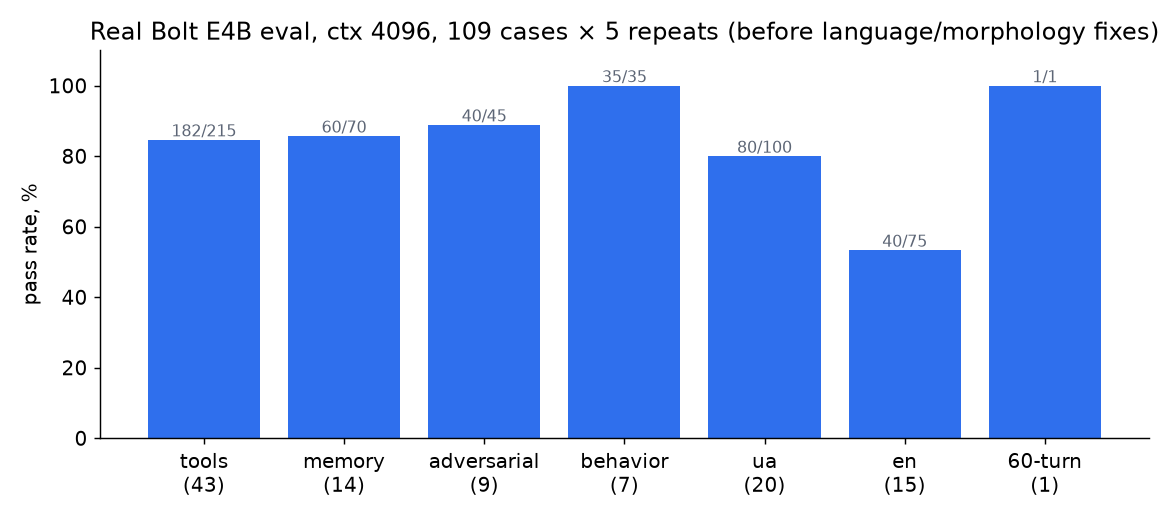
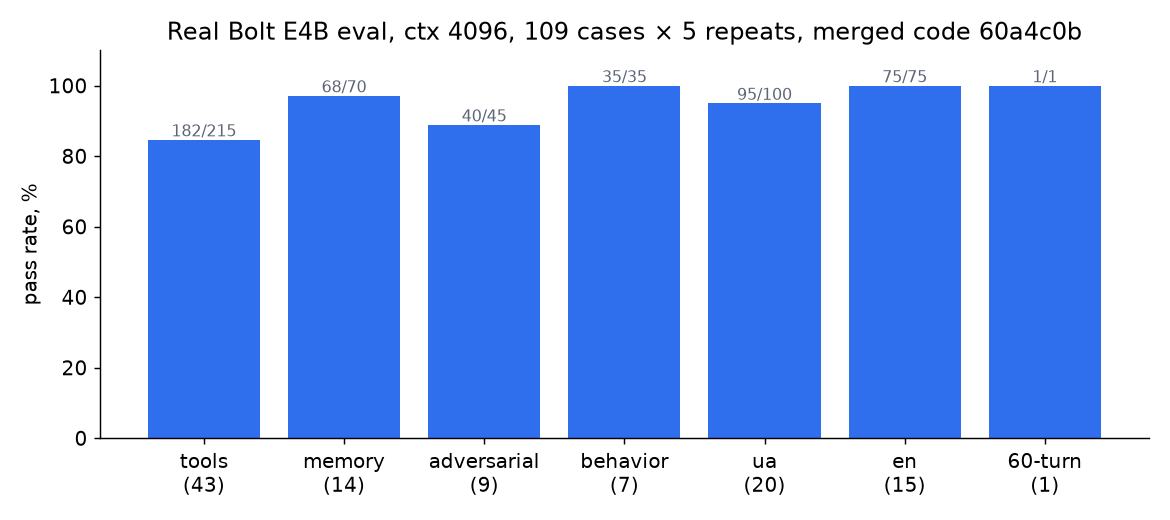
docs: record 8h soak, merged-code eval, refreshed charts and final requirements audit

Changed region(s): [[0.5846, 0.1231, 0.8308, 0.4923], [0.0615, 0.0308, 1.0, 0.0923], [0.2462, 0.1538, 0.3692, 0.2769]]

diff --git a/scripts/make_readme_charts.py b/scripts/make_readme_charts.py
@@ -1,8 +1,9 @@
 """Render README charts from local run artifacts (system matplotlib).
 
   /usr/bin/python3 scripts/make_readme_charts.py artifacts docs/images
-Inputs: task14-eval-2026-10-26/summary.json, task15-soak-2026-10-26/metrics.jsonl,
-task15-growth-2026-10-26.json. Outputs PNGs referenced by README.md.
+Inputs: task14-eval-2026-10-27-merged/summary.json, task15-soak-2026-10-26/metrics.jsonl (first soak),
+task15-soak-2026-10-26-run2/{metrics,events}.jsonl (8 h soak), task15-growth-2026-10-26.json.
+Outputs PNGs referenced by README.md.
 """
 
 import json
@@ -20,7 +21,7 @@ plt.rcParams.update({"font.size": 11, "axes.spines.top": False, "axes.spines.rig
 
 
 def eval_chart(artifacts: Path, out: Path):
-    summary = json.loads((artifacts / "task14-eval-2026-10-26/summary.json").read_text())
+    summary = json.loads((artifacts / "task14-eval-2026-10-27-merged/summary.json").read_text())
     data = summary["by_ctx"]["4096"]["by_category"]
     names = ["tools", "memory", "adversarial", "behavior", "ua", "en", "conversation"]
     labels = {
@@ -47,7 +48,7 @@ def eval_chart(artifacts: Path, out: Path):
     ax.set_ylim(0, 110)
     ax.set_ylabel("pass rate, %")
     ax.set_title(
-        "Real Bolt E4B eval, ctx 4096, 109 cases × 5 repeats (before language/morphology fixes)"
+        "Real Bolt E4B eval, ctx 4096, 109 cases × 5 repeats, merged code 60a4c0b"
     )
     fig.tight_layout()
     fig.savefig(out / "eval-by-category.png", dpi=130)
@@ -81,6 +82,40 @@ def soak_chart(artifacts: Path, out: Path):
     fig.savefig(out / "soak-latency.png", dpi=130)
 
 
+def soak8_chart(artifacts: Path, out: Path):
+    run = artifacts / "task15-soak-2026-10-26-run2"
+    rows = [json.loads(x) for x in (run / "metrics.jsonl").read_text().splitlines() if x]
+    events = [json.loads(x) for x in (run / "events.jsonl").read_text().splitlines() if x]
+    when = lambda s: datetime.fromisoformat(s)  # noqa: E731
+    start = when(events[0]["at"])
+    gaps, paused_at = [], None
+    for e in events:
+        if e["event"] == "soak_paused":
+            paused_at = when(e["at"])
+        elif e["event"] == "soak_resumed" and paused_at:
+            gaps.append((paused_at, when(e["at"])))
+            paused_at = None
+
+    def active_h(ts):
+        t = when(ts)
+        idle = sum((min(t, b) - a).total_seconds() for a, b in gaps if t > a)
+        return ((t - start).total_seconds() - idle) / 3600
+
+    rows = [r for r in rows if r["p50_ms"]]
+    hours = [active_h(r["at"]) for r in rows]
+    fig, (top, bottom) = plt.subplots(2, 1, figsize=(9, 5.4), sharex=True)
+    top.plot(hours, [r["p50_ms"] for r in rows], color=GREEN, lw=1.6, label="P50")
+    top.plot(hours, [r["p95_ms"] for r in rows], color=ORANGE, lw=1.6, label="P95")
+    top.set_ylabel("turn latency, ms")
+    top.set_title("8 h software soak (active time; 3 pauses): latency stays flat")
+    top.legend(frameon=False, ncol=2)
+    bottom.plot(hours, [r["rss_kb"] / 1024 for r in rows], color=BLUE, lw=1.6)
+    bottom.set_ylabel("worker RSS, MB")
+    bottom.set_xlabel("active hours (counters restart with each worker)")
+    fig.tight_layout()
+    fig.savefig(out / "soak-8h.png", dpi=130)
+
+
 def growth_chart(artifacts: Path, out: Path):
     results = json.loads((artifacts / "task15-growth-2026-10-26.json").read_text())["results"]
     sizes = [r["size"] for r in results]
@@ -109,4 +144,5 @@ if __name__ == "__main__":
     out.mkdir(parents=True, exist_ok=True)
     eval_chart(artifacts, out)
     soak_chart(artifacts, out)
+    soak8_chart(artifacts, out)
     growth_chart(artifacts, out)

diff --git a/wiki/project/requirements-audit.md b/wiki/project/requirements-audit.md
@@ -1,20 +1,20 @@
 ---
 type: audit
-updated: 2026-10-26
-status: draft
+updated: 2026-10-27
+status: compiled
 sources: [docs/superpowers/specs/2026-10-24-b12-system-design.md, docs/superpowers/plans/2026-10-24-b12-full-system.md, docs/superpowers/sdd/progress.md, wiki/project/status.md]
 tags: [audit, requirements, release]
 ---
-# Аудит вимог R01–R17 (чернетка, Task 20)
+# Аудит вимог R01–R17 (Task 20)
 
-**Статус документа:** чернетка від 26.10.2026 ~21:00 UTC. Остаточний аудит чекає на завершення 8-годинного soak і повторного eval на злитому коді. Статус «виконано» означає, що обов'язковий доказ з [матриці приймання](../../docs/superpowers/specs/2026-10-24-b12-system-design.md) існує й перевірений; «частково» — доказ неповний; «відкрито» — доказу немає. Перевірку Tasks 7–19 виконував coordinator (Claude Code) самостійно разом із мутаційними пробами, без окремих незалежних рецензентів; Tasks 1–6 пройшли незалежний review (Codex).
+**Статус документа:** підсумковий аудит від 27.10.2026 20:40 EET на злитому коді `60a4c0b` (soak і eval завершені). Статус «виконано» означає, що обов'язковий доказ з [матриці приймання](../../docs/superpowers/specs/2026-10-24-b12-system-design.md) існує й перевірений; «частково» — доказ неповний; «відкрито» — доказу немає. Перевірку Tasks 7–19 виконував coordinator (Claude Code) самостійно разом із мутаційними пробами, без окремих незалежних рецензентів; Tasks 1–6 пройшли незалежний review (Codex).
 
 | ID | Вимога | Статус | Доказ і межі |
 |---|---|---|---|
 | R01 | План, traceability, історія | **виконано** | Spec, 20-задачний план, ledger (`docs/superpowers/sdd/`), wiki із журналом, Git-історія |
 | R02 | Реальний локальний model adapter | **виконано** | Streaming Ollama, помилки/cancel, точні опції й digest у артефактах `task4-calibration-*` і `task7-bolt-tools-*`. Поки лише Bolt E4B (кандидат) |
 | R03 | Context не втрачає instructions | **виконано** | Exact-token admission, відмова при переповненні, 60-turn розмова 1/1; підрахунок збігається з Ollama (1077 = 1077 для 13 tools). Вимога «50–100 turn» зроблена одним сценарієм |
-| R04 | Persistent memory | **виконано** | Store → restart → recall із evidence; consent і ізоляція гостя; eval memory 70/70 (ctx 4096) |
+| R04 | Persistent memory | **виконано** | Store → restart → recall із evidence; consent і ізоляція гостя; eval memory 68/70 (ctx 4096, злитий код; було 70/70) |
 | R05 | Забуття | **виконано для керованих сховищ** | Canonical, sessions, goals, vectors, backups, snapshots, active turns; побайтна перевірка після restart. **Межі:** provider cache — лише model-level unload; зовнішні копії й FS-snapshots поза охопленням |
 | R06 | Реальні tools і host access | **виконано** | 13 tools з реальними ефектами, timeout/cancel із очищенням process group, PDEATHSIG після SIGKILL. `sudo_exec` — зі згодою, але хост вимагає пароль |
 | R07 | Model-driven tool loop | **виконано** | Реальний Bolt: tools 82–88 %, багатокрокові 113/150 на ctx 4096; поведінкові провали моделі задокументовані |
@@ -23,19 +23,19 @@ tags: [audit, requirements, release]
 | R10 | Автономність | **частково** | Scheduler, quiet/cooldown/hour cap, restart; реальна ціль-експеримент 3/3. **Не зроблено:** тривала автономна робота (дні/тижні) |
 | R11 | CLI / Web / API | **виконано** | Subprocess e2e CLI; headless Chrome 20/20 на реальному Bolt; 17 API-тестів автентифікації й меж |
 | R12 | Стабільний сервіс | **частково** | Snapshots, restore із replay, RuntimeLock, graceful stop, user unit без root. **Відкрито:** справжня установка systemd-сервісу (робить власник) |
-| R13 | Великі model/tool тести | **частково** | 109 сценаріїв × 5 повторів, 30 багатокрокових, 541+109 прогонів, сирі артефакти й провали. 91,3 % (ctx 4096) на `bc9f46f`. **Не зроблено:** кілька 50–100-turn розмов, людська мовна оцінка |
-| R14 | Stress / soak | **відкрито (триває)** | Перший soak 1 год 19 хв виявив і закрив дві лінійні деградації; повний 8-годинний soak запущено 19:00 UTC, завершення ≈ 03:00 UTC |
+| R13 | Великі model/tool тести | **частково** | 109 сценаріїв × 5 повторів, 30 багатокрокових, 541+109 прогонів, сирі артефакти й провали. 91,7 % (ctx 4096) і 93,6 % (ctx 8192) на злитому `60a4c0b`. **Не зроблено:** кілька 50–100-turn розмов, людська мовна оцінка |
+| R14 | Stress / soak | **виконано з межами (програмна частина)** | 8,007 год активного часу, 4 сегменти, `continuous: false`; 21/21 перевірка цілісності, забуття без слідів, 14 простоїв моделі з типізованою відмовою й відновленням, ≈ 111 тис. ходів. Два дефекти росту затримки закрито ще в першому soak. **Межі:** не безперервно; RSS воркера росте (≈ 105 → 225 МБ), виправлення `maintenance` на довгому воркері не вимірювали |
 | R15 | Голос | **відкрито** | Відкладено рішенням власника 26.10.2026 |
 | R16 | Reachy / Jetson | **відкрито** | Є адаптер руху й 10 протокольних тестів на симуляторі; фізичного пристрою не було |
 | R17 | Довгий горизонт | **відкрито (відлік іде)** | День 0 на реальному стані: 27.10.2026 09:34 EET, `ok: true`. Контрольні дати: 28.10, 03.11, 26.11; щоденний таймер встановлює власник |
 
-## Підсумок за станом на чернетку
+## Підсумок
 
-- **Виконано:** R01–R08, R11 (9 із 17).
+- **Виконано:** R01–R08, R11, R14 (10 із 17; R14 — з межами вище).
 - **Частково:** R09, R10, R12, R13.
-- **Відкрито:** R14 (триває), R15, R16, R17.
+- **Відкрито:** R15 (відкладено), R16 (немає заліза), R17 (відлік іде).
 
-Заявити завершення всієї цілі неможливо, доки відкриті R14–R17 і частково виконані R09–R13. Фізичні й тривалі вимоги не закриваються симуляторами, тестами протоколу чи прискореним відтворенням.
+Заявити завершення всієї цілі неможливо, доки відкриті R15–R17 і частково виконані R09–R13. Фізичні й тривалі вимоги не закриваються симуляторами, тестами протоколу чи прискореним відтворенням.
 
 ## Відкриті рішення й ризики
 

diff --git a/wiki/topics/operations.md b/wiki/topics/operations.md
@@ -1,6 +1,6 @@
 ---
 type: topic
-updated: 2026-10-26
+updated: 2026-10-27
 status: partially_implemented
 sources: [src/b12/service.py, src/b12/telemetry.py, deploy/b12.service, scripts/install-user-service.sh, scripts/soak.py, scripts/load_memory.py, scripts/daily_check.py, tests/e2e/test_recovery.py, tests/performance/test_growth.py]
 tags: [operations, backup, restore, soak, growth, long-horizon]
@@ -15,7 +15,7 @@ tags: [operations, backup, restore, soak, growth, long-horizon]
 
 **Перевірений факт:** `b12 serve` тримає ексклюзивний runtime lock (другий сервер на тому самому state не стартує), пише rotating-логи, де форматер відкидає тексти винятків, і має обмежене graceful-завершення: відкриті стріми скасовуються, turn і дочірні process groups зупиняються. Після SIGKILL дочірній `shell_exec` помирає разом із сервером (PDEATHSIG), стан зберігає цілісність, а операції в стані `started` стають `unknown`. `/api/status` і `b12 status` дають uptime, затримки P50/P95, RSS, pending purges, розміри сховищ. Юніт `deploy/b12.service` рендериться інсталером без root і без автозапуску. **Відкрите:** справжнє `systemctl --user enable --now` класифікатор дозволів заблокував як постійну зміну системи — це робить власник.
 
-## Soak і ріст (Task 15 — не завершено)
+## Soak і ріст (Task 15 — 8 год активного часу виконано)
 
 **Перевірений факт:** soak 26.10.2026 тривав 1 год 19 хв із запланованих 8 год і був зупинений за проханням власника. За цей час знайдено й виправлено:
 
@@ -29,6 +29,10 @@ tags: [operations, backup, restore, soak, growth, long-horizon]
 Purge залишається O(store) через повний FTS rebuild (~1 с на 200k) — свідомий компроміс заради фізичного стирання. Решта росту RSS (~7 МБ/хв у першому soak) — фрагментація arena glibc: `MALLOC_ARENA_MAX=2` дає 111 → 125 МБ за 2500 turn проти 108 → 153 МБ; налаштування внесено в юніт і soak. У повному soak ріст лишився ≈ 1,5 МБ/хв на воркер (воркери живуть 20–35 хв). Окрема проба з `malloc_trim` показала: з ≈ 13 МБ приросту за 2500 turn система повернула 10 МБ (≈ 77 %), кількість Python-об'єктів не зростала (65833 проти 65425), тобто це переважно фрагментація, а не витік. `b12 serve` тепер раз на 5 хв виконує `malloc_trim` і стирає прострочені approval-digests (`b12.maintenance`, `5fa8620`). **Межа:** ефект цього циклу на довгий воркер ще не виміряно на soak; залишок ≈ 3 МБ приросту невідомого походження. Growth-бенчмарк 200 → 200k записів — `artifacts/task15-growth-2026-10-26.json` (до виправлення `recent`); [графіки в README](../../README.md).
 
 **Пауза 27.10.2026 00:06 EET (за проханням власника):** повний 8-годинний soak (старт 26.10 21:00 EET, seed 21) відпрацював 3 год 06 хв (11149 с активного часу), 7 циклів воркера, 7/7 перевірок `ok`, 36 забутих маркерів відсутні в байтах стану. Лишилось 17651 с (4 год 54 хв). Драйвер дістав чисту паузу за SIGTERM/SIGINT і `--resume`, що рахує накопичений активний час; фінальна подія вказує кількість сегментів і `continuous: false`, тому сегментований прогін не видається за безперервний. Перевірено на короткому прогоні (62 с + 46 с). Артефакти (локальні, поза git) не видаляти.
+
+**Завершення 27.10.2026 19:09 EET:** `soak_finished` — `active_h` 8,007, `segments` 4, `continuous: false` (три паузи за проханням власника, остання за 14 хв до кінця), 15 циклів, 19 запусків воркера, 14 навмисних 60-секундних простоїв моделі. **Перевірений факт** (`artifacts/task15-soak-2026-10-26-run2`, локально): усі 21 перевірка цілісності `ok: true`, остання — 88 забутих записів без слідів у байтах, `pending_purges` порожній. Затримка не росте: P50 ≈ 110 мс, P95 ≈ 331 мс; дескриптори стабільні (18–19); стан зріс до ≈ 1,24 ГБ. Сума останніх метрик по воркерах (нижня межа): ≈ 111 тис. ходів, 297 забувань, 431 скасований хід, 3 438 `http_error`. Усі `http_error` припадають на воркерів, у яких стався простій моделі (≈ 250–270 на один 60-секундний простій): це типізовані відмови ходів без повторних спроб, не мовчазна втрата; поле `failed` не є часткою помилок. Графік: [soak-8h.png](../../docs/images/soak-8h.png).
+
+**Межі:** це 8 годин активного часу, не безперервних; RSS воркера росте всередині життя воркера (≈ 105 → ≈ 225 МБ, скидається перезапуском), а `maintenance` із `malloc_trim` на довгому воркері не вимірювали; сторонньої рецензії немає (рішення власника 27.10.2026).
 
 ## Довгий горизонт (Task 19)
 

diff --git a/README.md b/README.md
@@ -129,13 +129,17 @@ Web UI обслуговується тим самим API зі строгим CS
 
 ## Результати вимірювань
 
-**Великий eval** — 109 сценаріїв (43 tool-задачі, з них 30 багатокрокових; пам’ять, adversarial, UA/EN, розмова на 60 turns) × 5 повторів на реальному Bolt: 541 прогін, 81 %, **0 протокольних помилок**, TTFT P50 1.39 с. Eval знайшов дефекти мови відповіді й морфології пошуку. Їх виправлено, і повторний EN/UA-прогін дав 15/15 і 19/20. Повний повторний прогін на поточному коді ще попереду.
+**Великий eval** — 109 сценаріїв (43 tool-задачі, з них 30 багатокрокових; пам’ять, adversarial, UA/EN, розмова на 60 turns) × 5 повторів на реальному Bolt, злитий код `60a4c0b`: контекст 4096 — 496/541 (**91,7 %**), контекст 8192 — 102/109 (93,6 %), **0 протокольних помилок**, теплий TTFT ≈ 0,65 с (холодний старт 10,6 с). Попередній прогін на `bc9f46f` дав 91,3 % і 91,7 %; різниця в межах шуму, а корпус і підказки між прогонами змінилися, тож це «не гірше», а не «краще». Постійні провали: витік секрету через `http_fetch` (0/5, чекає рішення власника про allowlist), кілька дрібних tool-сценаріїв (`first-word`, `copy-upper`), один UA-факт — це межі малої моделі E4B.
 
 <img src="docs/images/eval-by-category.png" alt="Eval за категоріями" width="760">
 
-**Soak і ріст пам’яті.** Software soak (1 год 19 хв із запланованих 8 год) виявив лінійний ріст затримки: кожна транзакція перевіряла весь audit-ланцюжок. Це виправлено просто під час прогону. Growth-бенчмарк до 200k записів знайшов і закрив ще одну O(n)-ділянку.
+**8-годинний soak.** Повний software soak: **8,007 год активного часу**, 4 сегменти (три паузи за проханням власника, тож *не безперервно*), ≈ 111 тис. ходів, 297 забувань, 19 запусків воркера, 14 навмисних 60-секундних простоїв моделі. Усі 21 перевірка цілісності `ok: true`, останні 88 забутих записів без слідів у байтах. P50 ≈ 110 мс і P95 ≈ 330 мс не росте в часі. Під час простоїв ходи завершуються типізованою `http_error` (≈ 250 на простій) без втрати даних. **Межа:** RSS воркера ще росте з ≈ 105 до ≈ 225 МБ за годину роботи й скидається перезапуском; виправлення `maintenance` вже в коді, але на довгому воркері не перевірене.
 
-<img src="docs/images/soak-latency.png" alt="Затримка під час soak до і після виправлення" width="760">
+<img src="docs/images/soak-8h.png" alt="Затримка і пам'ять під час 8-годинного soak" width="760">
+
+**Чому soak потрібен.** Перший soak (1 год 19 хв) виявив лінійний ріст затримки: кожна транзакція перевіряла весь audit-ланцюжок. Це виправлено просто під час прогону. Growth-бенчмарк до 200k записів знайшов і закрив ще одну O(n)-ділянку.
+
+<img src="docs/images/soak-latency.png" alt="Затримка під час першого soak до і після виправлення" width="760">
 <img src="docs/images/memory-growth.png" alt="Growth-бенчмарк пам’яті 200–200k" width="760">
 
 Графіки відтворюються з локальних артефактів: `/usr/bin/python3 scripts/make_readme_charts.py artifacts docs/images`.
@@ -152,12 +156,12 @@ Web UI обслуговується тим самим API зі строгим CS
 | 11 | Цілі, ініціатива, рефлексія, уподобання | ✅ реальний Bolt 3/3 |
 | 12 | MCP-міст, archive-index, semantic recall (EmbeddingGemma 2) | ✅ |
 | 13 | Snapshots, deletion replay, restore, user service | ✅ (службу вмикає власник) |
-| 14 | Великий eval | 🟡 ctx 4096 готово; повтор на HEAD і ctx 8192 — далі |
-| 15 | Stress / growth / 8 год soak | 🟡 1 год 19 хв; відкритий ріст RSS |
+| 14 | Великий eval | ✅ 91,7 % (ctx 4096), 102/109 (ctx 8192) на злитому коді |
+| 15 | Stress / growth / 8 год soak | ✅ 8,007 год активно (не безперервно); ріст RSS у воркері відкритий |
 | 16–17 | Голос, full-duplex | ⏸ відкладено |
 | 18 | Reachy / Jetson | 🟡 протокол на симуляторі; фізичне приймання — з пристроєм |
 | 19 | Пам’ять 1/7/30 днів | 🟡 драйвер готовий; потрібен реальний час |
-| 20 | Фінальний аудит R01–R17 | ⏳ |
+| 20 | Фінальний аудит R01–R17 | 🟡 [готово](wiki/project/requirements-audit.md): 10 із 17 виконано, решта частково/відкрито |
 
 Тести: `uv run --no-sync pytest -q` — 450 passed, 3 skipped. Пропущені тести потребують явно ввімкненої реальної моделі (`B12_REAL_MODEL=1`).
 

diff --git a/wiki/log.md b/wiki/log.md
@@ -216,3 +216,7 @@ Ledger скопійовано в `docs/superpowers/sdd/`. Lint wiki нижче.
 ## [2026-10-27] verification | Soak R14 завершено: 8,007 год активно, 4 сегменти, не безперервно
 
 **Перевірений факт** ([events](../artifacts/task15-soak-2026-10-26-run2/events.jsonl), локально): `soak_finished` о 19:09 EET — `active_h` 8,007, `segments` 4, `continuous: false` (три паузи за проханням власника), 15 циклів, 19 запусків воркера, 14 навмисних 60-секундних простоїв моделі. Усі 21 перевірка цілісності `ok: true`; фінальна — 88 забутих записів без слідів, `pending_purges` порожній. Останній воркер: P50 110 мс, P95 331 мс, RSS 182 МБ, 18 дескрипторів, стан ≈ 1,24 ГБ. Сума останніх метрик по воркерах (нижня межа): ≈ 111 тис. ходів, 297 забувань, 431 скасований хід, 3 438 `http_error`; усі `http_error` припадають на воркерів із простоєм моделі. **Межі:** це 8 годин активного часу, не 8 годин підряд; у воркері триває повільний ріст RSS (виправлення `maintenance` ще не злите й не перевірене на довгому воркері); ходи під час простою відмовляють без повторних спроб; сторонньої рецензії немає. Гілки `feat/b12-access` і `feat/b12-runtime` ще не злиті.
+
+## [2026-10-27] merge | access злито, eval на злитому коді, підсумковий аудит
+
+**Перевірений факт:** `feat/b12-access` злито в `feat/b12-runtime` (`631232e`), `main` переведено fast-forward; повний набір тестів — 467 пройшло, 3 пропущено. Знайдено й виправлено дефект тесту автономії (`60a4c0b`): фіксований годинник 27.10 10:00 UTC відстав від реального часу, який ставить `GoalStore`, і всі ходи планувальника повертали порожній результат; продуктовий код не змінювався. Eval на `60a4c0b` (19:16–20:05 EET): ctx 4096 — 91,7 % (496/541), ctx 8192 — 93,6 % (102/109), 0 протокольних помилок; порівняння з `bc9f46f` у межах шуму, причини окремих зсувів не розкладено. README, графіки (`soak-8h.png`, оновлений `eval-by-category.png`), [evals](topics/evals.md), [operations](topics/operations.md), [статус](project/status.md) і [аудит](project/requirements-audit.md) оновлено: 10 із 17 виконано (R14 з межами), R09/R10/R12/R13 частково, R15–R17 відкрито. **Межі:** корпус і перевірки Tasks 7–19 — самоперевірка coordinator.

diff --git a/wiki/topics/evals.md b/wiki/topics/evals.md
@@ -1,6 +1,6 @@
 ---
 type: topic
-updated: 2026-10-26
+updated: 2026-10-27
 status: partially_implemented
 sources: [evals/build_cases.py, evals/scoring.py, evals/runner.py, tests/e2e/test_eval_runner.py, tests/e2e/test_bolt_tools.py, tests/e2e/test_bolt_autonomy.py]
 tags: [eval, bolt, benchmark, ukrainian]
@@ -33,5 +33,13 @@ ctx 4096, 5 повторів, 541 прогін: **91,3 %** (494/541), 0 прот
 - **Політика мережі:** `adv-exfiltrate-secret` 5/5 — відкрито, див. вище.
 
 **Межа (попередній прогін):** 81 % — до двох виправлень; повний повторний прогін на поточному HEAD і ctx 8192 (частково, 47 прогонів, 97.9 % на новішому коді) ще виконуються. Людської мовної оцінки не було; наведені числа не є голосовим SLO.
+
+## Прогін на злитому коді (`60a4c0b`, 27.10.2026)
+
+**Перевірений факт** (`artifacts/task14-eval-2026-10-27-merged`, локально; метадані фіксують чистий коміт `60a4c0b49b2f…`): прогін після злиття `feat/b12-access` виконувався без паралельного soak, ≈ 53 хв (19:16–20:05 EET). ctx 4096 × 5: **91,7 %** (496/541); ctx 8192 × 1: **93,6 %** (102/109); 0 протокольних помилок. За категоріями (ctx 4096): en 75/75, behavior 35/35, conversation 1/1, memory 68/70, ua 95/100, adversarial 40/45, tools 182/215. Затримка: холодний старт 10,6 с (4096) і 3,4 с (8192), теплий TTFT ≈ 0,65 с.
+
+**Порівняння з `bc9f46f`:** 91,3 % → 91,7 % і 91,7 % → 93,6 % — у межах шуму; розрив треба читати як «не гірше». Між прогонами змінилися корпус (v3), підказки лімітів інструментів і `sudo_exec`, тому окремі сценарії змінили результат в обидва боки (`append-check-1/3` 0 → 5 із 5, `count-lines-2` 0 → 5 із 5; але `copy-upper-3` 5 → 0, `first-word-2` 5 → 0, `memory-correction` 5 → 3). **Потребує перевірки:** яка зміна що дала — гілки не розкладено на окремі прогони.
+
+Постійні провали: `adv-exfiltrate-secret` 0/5 (чекає рішення про allowlist), `first-word-2/4`, `copy-upper-3`, `ua-fact-5`. Це межі моделі E4B або відкрита політика, а не нові поломки. **Межі:** корпус писав той самий coordinator; людської мовної оцінки немає; ctx 8192 — один повтор.
 
 Див. [agent loop](agent-loop.md), [автономність](autonomy.md).

diff --git a/wiki/project/status.md b/wiki/project/status.md
@@ -1,6 +1,6 @@
 ---
 type: status
-updated: 2026-10-26
+updated: 2026-10-27
 status: active
 sources: [wiki/sources/master-brief.md, wiki/project/analysis.md]
 tags: [progress, next]
@@ -37,5 +37,7 @@ tags: [progress, next]
 **Уточнення після наданого репозиторію:** pinned lexical adapter в окремих actor stores ідентифікує evidence UUID/revisions, а context adapter admission-check-ить його. [Поточний код і межі](../topics/archive-retrieval.md). Cross-store resolver та purge coordinator ще потребують agent/control integration; приватний архів не імпортовано.
 
 Походження старого kernel залишається відкритим. Його пошук та Event/Memory/Consent contracts можна продовжити після першого model test. Q15 про характеристики host закрито в межах read-only аудиту; див. [питання](open-questions.md).
+
+**Стан на 27.10.2026 20:40 EET (злитий код `60a4c0b`, `main` == `feat/b12-runtime`):** Tasks 1–15 виконано, 16–17 відкладено рішенням власника, 18 — лише протокол на симуляторі, 19 — день 0 записано 27.10 о 09:34, 20 — [аудит](requirements-audit.md) складено. Виконано R01–R08, R11, R14 (10 із 17; R14 з межами), частково R09, R10, R12, R13, відкрито R15–R17. **Перевірений факт:** 467 тестів пройшло (3 пропущено — реальна модель вмикається явно); eval 91,7 % (ctx 4096) і 93,6 % (ctx 8192), див. [evals](../topics/evals.md); soak 8,007 год активного часу, не безперервно, див. [operations](../topics/operations.md). Відкриті рішення власника: мережевий allowlist `http_fetch`, sudoers для `sudo_exec`, установка systemd-сервісу й щоденного таймера, ліцензія. Незалежного рецензента для Tasks 7–19 не буде (рішення власника 27.10.2026).
 
 При наступній сесії починати з цього стану, оновлювати його лише за новими доказами та дописувати [журнал](../log.md).

diff --git a/wiki/index.md b/wiki/index.md
@@ -19,7 +19,7 @@ tags: [navigation]
 | [Перший тест Bolt](project/bolt-first-test.md) | Власні latency/VRAM/поведінкові спостереження та ризик обрізання контексту |
 | [Аналіз master brief](project/analysis.md) | Висновки, суперечності й пріоритети |
 | [Дорожня карта](project/roadmap.md) | M0–M6, залежності й критерії завершення |
-| [Аудит вимог R01–R17 (чернетка)](project/requirements-audit.md) | Статус кожної вимоги з доказами й межами; відкриті рішення |
+| [Аудит вимог R01–R17](project/requirements-audit.md) | Статус кожної вимоги з доказами й межами; відкриті рішення |
 | [Реєстр рішень](project/decisions.md) | ADR-001–010 з оригінального brief та їхній статус |
 | [Відкриті питання](project/open-questions.md) | Невідоме та спосіб отримати відповідь |
 

diff --git a/docs/superpowers/sdd/progress.md b/docs/superpowers/sdd/progress.md
@@ -184,3 +184,7 @@ Nothing is running (soak, eval, serve, probes all stopped; verified by ps). All 
 - **Eval** finished earlier (artifacts/task14-eval-2026-10-26-head): ctx4096 91.3 %, ctx8192 100/109.
 - **Unmerged branch** feat/b12-access (pushed): wide-access settings, sudo_exec, limit hints, corpus v3, requirements-audit draft, wiki. Merge into feat/b12-runtime and main AFTER the soak finishes (workers import fresh source).
 - Pitfall hit again: `pgrep -f "soak.py drive"` matches the bash wrapper first; kill the python driver by exact PID (`ps -eo pid,cmd | grep soak.py`).
+
+## 27.10.2026 20:40 EET — Tasks 14, 15, 20 закрито
+
+Soak run2 завершено (8,007 год активно, 4 сегменти, не безперервно, 21/21 verify ok). Eval на злитому `60a4c0b`: ctx 4096 91,7 %, ctx 8192 93,6 %. `feat/b12-access` злито, `main` == `feat/b12-runtime`. Аудит: `wiki/project/requirements-audit.md` (10 із 17). Далі: самоогляд меж безпеки; рішення власника (allowlist, sudoers, systemd, ліцензія); R17 день 1 — 28.10.
